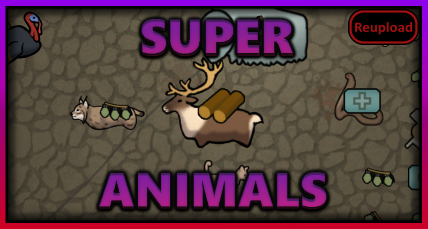
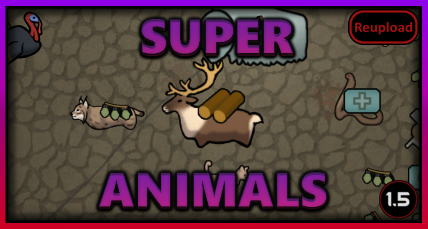
Reactivated mod, as the original was removed

Changed region(s): [[0.8808, 0.7642, 0.972, 0.9782]]

diff --git a/README.md b/README.md
@@ -1,12 +1,11 @@
-# SuperAnimals
+# [Super Animals (Continued)](https://steamcommunity.com/sharedfiles/filedetails/?id=2567336661)
 
 ![Image](https://i.imgur.com/buuPQel.png)
 
 Update of Daniledmans mod
 https://steamcommunity.com/sharedfiles/filedetails/?id=1227402906
 
-![Image](https://i.imgur.com/CN9Rs5X.png)
-
+![Image](https://i.imgur.com/pufA0kM.png)
 	
 ![Image](https://i.imgur.com/Z4GOv8H.png)
 
@@ -38,11 +37,12 @@ _______
 
 -  See if the the error persists if you just have this mod and its requirements active.
 -  If not, try adding your other mods until it happens again.
--  Post your error-log using https://steamcommunity.com/workshop/filedetails/?id=818773962]HugsLib and command Ctrl+F12
+-  Post your error-log using [HugsLib](https://steamcommunity.com/workshop/filedetails/?id=818773962) or the standalone [Uploader](https://steamcommunity.com/sharedfiles/filedetails/?id=2873415404) and command Ctrl+F12
 -  For best support, please use the Discord-channel for error-reporting.
 -  Do not report errors by making a discussion-thread, I get no notification of that.
 -  If you have the solution for a problem, please post it to the GitHub repository.
+-  Use [RimSort](https://github.com/RimSort/RimSort/releases/latest) to sort your mods
 
+ 
 
-
-
+[![Image](https://img.shields.io/github/v/release/emipa606/SuperAnimals?label=latest%20version&style=plastic&color=9f1111&labelColor=black)](https://steamcommunity.com/sharedfiles/filedetails/changelog/2567336661) | tags:  overpowered
